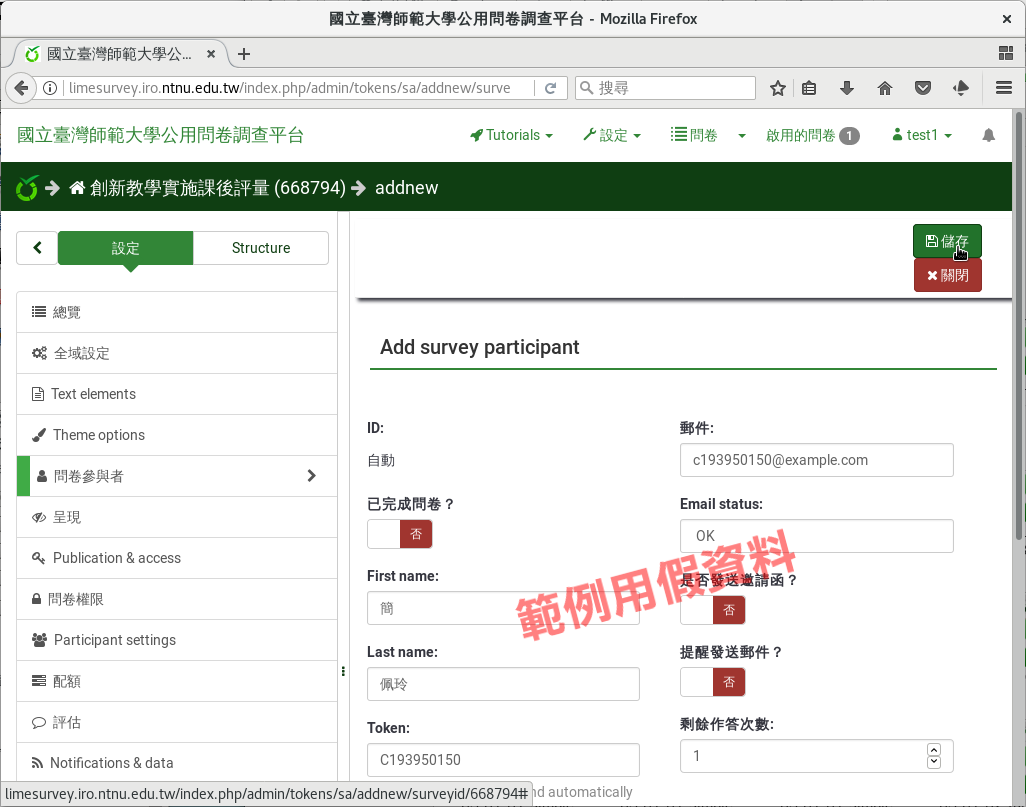
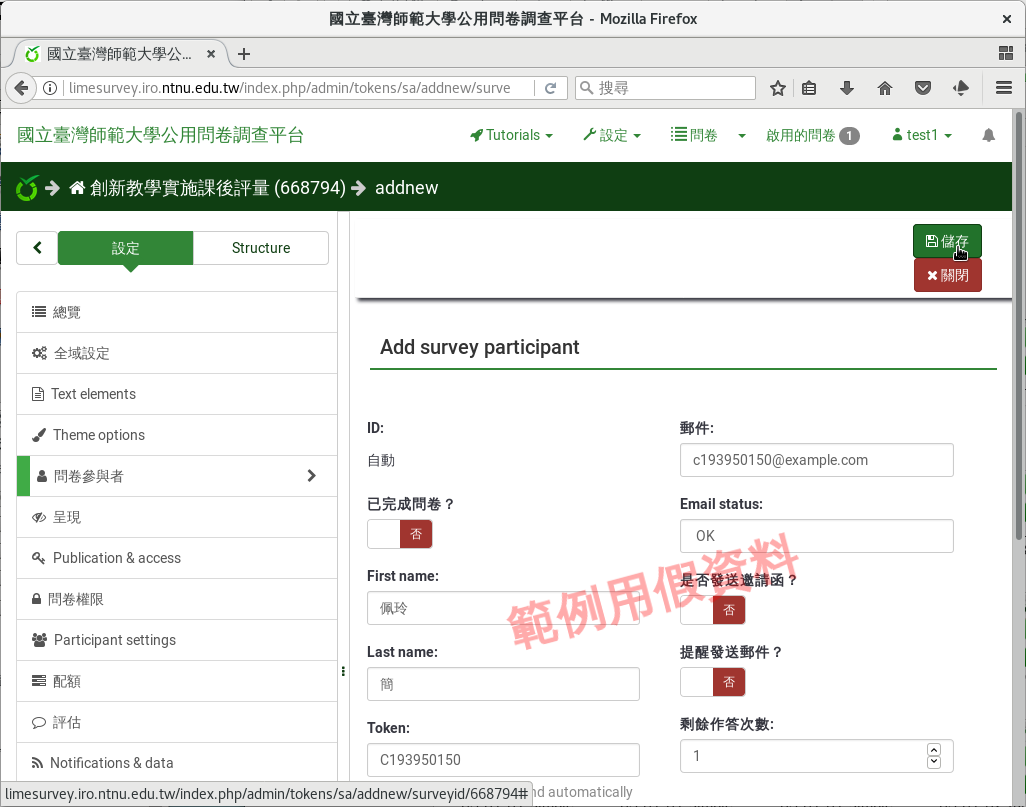
* Updated for LimeSurvey 3 for Chapter 5 and Appendix 1.

Changed region(s): [[0.499, 0.6506, 0.7797, 0.8055], [0.3743, 0.8364, 0.4055, 0.8674], [0.3743, 0.7435, 0.4055, 0.7745]]

diff --git a/05-01-02-full.rst b/05-01-02-full.rst
@@ -3,14 +3,14 @@
 
 LimeSurvey也提供完整的描述統計報表。
 
-從問卷頁面右上選單「回應」下的「回應&統計」點進去，然後點選上方選單的
+從問卷頁面上方選單「回應」下的「回應&統計」點進去，然後點選上方選單的
 「統計」。
 
 .. figure:: images/05-01-01-simple-01.png
-    :alt: 問卷頁面右上選單「回應」下的「回應&統計」
+    :alt: 問卷頁面上方選單「回應」下的「回應&統計」
     :scale: 60%
 
-    問卷頁面右上選單「回應」下的「回應&統計」
+    問卷頁面上方選單「回應」下的「回應&統計」
 
 .. figure:: images/05-01-01-simple-02.png
     :alt: 回應與統計頁面選單上的「統計」
@@ -34,16 +34,22 @@ LimeSurvey也提供完整的描述統計報表。
     勾選題組二的所有問題
 
 .. figure:: images/05-01-02-full-03.png
-    :alt: 勾選題組三的所有問題，查看統計
+    :alt: 勾選題組三的所有問題
     :scale: 60%
 
-    勾選題組三的所有問題，查看統計
+    勾選題組三的所有問題
+
+.. figure:: images/05-01-02-full-04.png
+    :alt: 點按最上方的「查看統計」
+    :scale: 60%
+
+    點按最上方的「查看統計」
 
 .. index:: 題型; 性別
 
 .. index:: 題型; 單選
 
-.. figure:: images/05-01-02-full-04.png
+.. figure:: images/05-01-02-full-05.png
     :alt: 描述統計報表：類別變數的次數分配表
     :scale: 60%
 
@@ -51,7 +57,7 @@ LimeSurvey也提供完整的描述統計報表。
 
 .. index:: 題型; 數值
 
-.. figure:: images/05-01-02-full-05.png
+.. figure:: images/05-01-02-full-06.png
     :alt: 描述統計報表：連續變數的描述統計
     :scale: 60%
 
@@ -59,7 +65,7 @@ LimeSurvey也提供完整的描述統計報表。
 
 .. index:: 題型; 李克特氏五點量表
 
-.. figure:: images/05-01-02-full-06.png
+.. figure:: images/05-01-02-full-07.png
     :alt: 描述統計報表：李克特氏五點量表
     :scale: 60%
 
@@ -67,7 +73,7 @@ LimeSurvey也提供完整的描述統計報表。
 
 .. index:: 題型; 排序
 
-.. figure:: images/05-01-02-full-07.png
+.. figure:: images/05-01-02-full-08.png
     :alt: 描述統計報表：排序題
     :scale: 60%
 
@@ -75,7 +81,7 @@ LimeSurvey也提供完整的描述統計報表。
 
 .. index:: 題型; 多行文字
 
-.. figure:: images/05-01-02-full-08.png
+.. figure:: images/05-01-02-full-09.png
     :alt: 描述統計報表：自由填答內容
     :scale: 60%
 

diff --git a/05-02-export.rst b/05-02-export.rst
@@ -4,19 +4,19 @@
 問卷的填答結果，可以 :index:`匯出` 成檔案下載，供後續進階分析。
 
 問卷頁面右上選單「回應」下的「回應&統計」點進去，然後點選上方選單
-「匯出」下的「Export result to application」，即可匯出。
+「匯出」下的「Export responses」，即可匯出。
 
 .. figure:: images/05-01-01-simple-01.png
-    :alt: 問卷頁面右上選單「回應」下的「回應&統計」
+    :alt: 問卷頁面上方「回應」下的「回應&統計」
     :scale: 60%
 
-    問卷頁面右上選單「回應」下的「回應&統計」
+    問卷頁面上方「回應」下的「回應&統計」
 
 .. figure:: images/05-02-export-01.png
-    :alt: 回應與統計頁面選單上「匯出」下的「Export result to application」
+    :alt: 回應與統計頁面選單上「匯出」下的「Export responses」
     :scale: 60%
 
-    回應與統計頁面選單上「匯出」下的「Export result to application」
+    回應與統計頁面選單上「匯出」下的「Export responses」
 
 可以選CSV、Excel、PDF、HTML、Word五種格式。選定格式後，按右上角
 「匯出」即可匯出下載。
@@ -36,10 +36,10 @@
 問卷資料亦可直接匯出成SPSS資料檔。
 
 .. figure:: images/05-02-export-04.png
-    :alt: 回應與統計頁面選單上「匯出」下的「匯出結果為SPSS/PASW格式文件」
+    :alt: 回應與統計頁面選單上「匯出」下的「Export responses to SPSS」
     :scale: 60%
 
-    回應與統計頁面選單上「匯出」下的「匯出結果為SPSS/PASW格式文件」
+    回應與統計頁面選單上「匯出」下的「Export responses to SPSS」
 
 .. figure:: images/05-02-export-05.png
     :alt: 匯出SPSS格式資料檔

diff --git a/04-03-01-participants.rst b/04-03-01-participants.rst
@@ -24,7 +24,7 @@
 
     點選「建立」加上新的填答者
 
-點「加入參與者」，就可以一筆一筆輸入填答者資料。
+選按「加入參與者」，就可以一筆一筆輸入填答者資料。
 
 .. figure:: images/04-03-01-participants-04.png
     :alt: 選「建立」「加入參與者」輸入填答者資料
@@ -32,7 +32,7 @@
 
     選「建立」「加入參與者」輸入填答者資料
 
-填上First name（姓）、Last name（名）和郵件信箱，按右上角「儲存」
+填上First name（名）、Last name（姓）和郵件信箱，按右上角「儲存」
 即可。Token（ :index:`邀請碼 <邀請碼; 填寫>` ）可留白，系統自動產生亂
 數邀請碼。也可以使用身份證字號、學號等對方容易記憶的邀請碼，
 只要不重複即可。
@@ -43,7 +43,7 @@
 
     輸入填答者資料
 
-點「CSV檔案」，可從CSV檔整批匯入填答者名單。
+選按「CSV檔案」，可從CSV檔整批匯入填答者名單。
 
 .. figure:: images/04-03-01-participants-06.png
     :alt: 選「建立」「CSV檔案」從CSV檔匯入填答者名單
@@ -53,8 +53,8 @@
 
 CSV檔欄位如下：
 
-- firstname（姓）
-- lastname（名）
+- firstname（名）
+- lastname（姓）
 - email（郵件信箱）
 - （選填）token（邀請碼）
 

diff --git a/05-01-01-simple.rst b/05-01-01-simple.rst
@@ -5,14 +5,14 @@ LimeSurvey提供簡易的次數分配圖。次數分配圖只能繪製
 :index:`類別變數 <變數; 類別>` 和
 :index:`李克特氏五點量表 <題型; 李克特氏五點量表>` 。
 
-從問卷頁面右上選單「回應」下的「回應&統計」點進去，然後點選上方選單的
+從問卷頁面上方選單「回應」下的「回應&統計」點進去，然後點選上方選單的
 「統計」。
 
 .. figure:: images/05-01-01-simple-01.png
-    :alt: 問卷頁面右上選單「回應」下的「回應&統計」
+    :alt: 問卷頁面上方選單「回應」下的「回應&統計」
     :scale: 60%
 
-    問卷頁面右上選單「回應」下的「回應&統計」
+    問卷頁面上方選單「回應」下的「回應&統計」
 
 .. figure:: images/05-01-01-simple-02.png
     :alt: 回應與統計頁面選單上的「統計」

diff --git a/apx-01-copy.rst b/apx-01-copy.rst
@@ -13,8 +13,8 @@
 
     建立問卷時點選「複製」
 
-選擇想當成範本複製的問卷，填上新的問卷標題，按右上方「儲存並關閉」，即
-可複製出一份新問卷。
+選擇想當成範本複製的問卷，填上新的問卷標題，按右上方「儲存」，即可複製
+出一份新問卷。
 
 .. figure:: images/apx-01-copy-02.png
     :alt: 複製問卷的頁面
